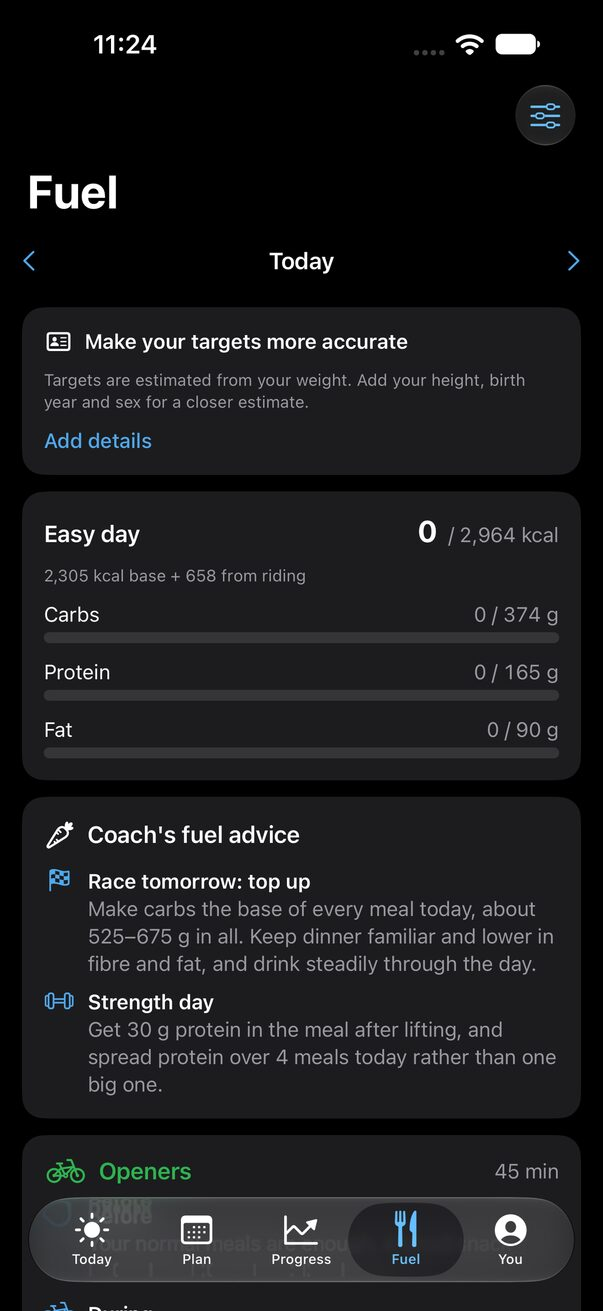
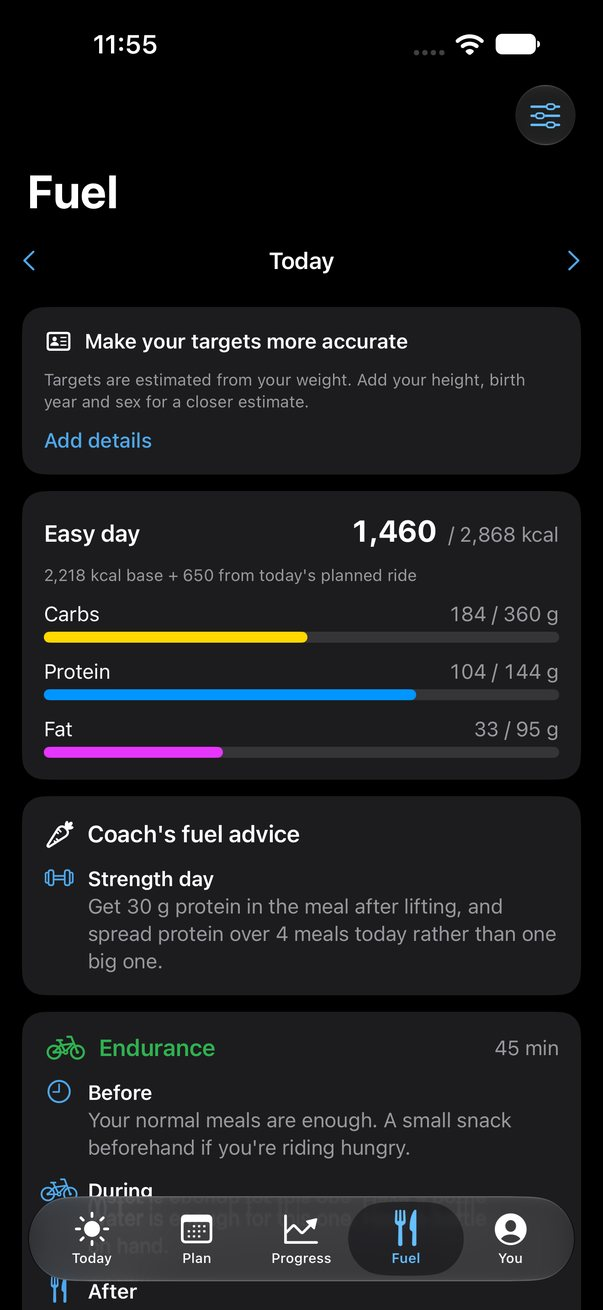
New screenshots: green readiness, mid-ladder levels, eFTP and ceiling, food logged
Claude-Session: https://claude.ai/code/session_01Aq7cdTdnGazcmdnT233x2H

diff --git a/index.html b/index.html
@@ -29,12 +29,12 @@
 
 <section class="strip" aria-label="Screenshots">
 <div class="shots">
-<figure><img src="assets/screens/today.jpg" alt="Today: Fitness 43, Fatigue 60, Form −17, readiness 73 and the coach's note" width="220" loading="lazy"><figcaption>Today</figcaption></figure>
+<figure><img src="assets/screens/today.jpg" alt="Today: Fitness 48, Fatigue 40, Form +9, readiness 100 (good) and the coach's note" width="220" loading="lazy"><figcaption>Today</figcaption></figure>
 <figure><img src="assets/screens/plan.jpg" alt="Plan: the week's workouts day by day" width="220" loading="lazy"><figcaption>Plan</figcaption></figure>
 <figure><img src="assets/screens/workout.jpg" alt="A planned workout with its intervals and watt targets" width="220" loading="lazy"><figcaption>Workout</figcaption></figure>
-<figure><img src="assets/screens/progress.jpg" alt="Progress: FTP in the race category band and workout levels" width="220" loading="lazy"><figcaption>Progress</figcaption></figure>
+<figure><img src="assets/screens/progress.jpg" alt="Progress: workout levels around L5 and FTP history with eFTP and the category ceiling" width="220" loading="lazy"><figcaption>Progress</figcaption></figure>
 <figure><img src="assets/screens/ride-detail.jpg" alt="A ride's details with zones and charts" width="220" loading="lazy"><figcaption>Ride detail</figcaption></figure>
-<figure><img src="assets/screens/fuel.jpg" alt="Fuel: the day's calories, macros and meals" width="220" loading="lazy"><figcaption>Fuel</figcaption></figure>
+<figure><img src="assets/screens/fuel.jpg" alt="Fuel: an easy day's calories and macros so far, with the coach's fuel advice" width="220" loading="lazy"><figcaption>Fuel</figcaption></figure>
 </div>
 </section>
 
